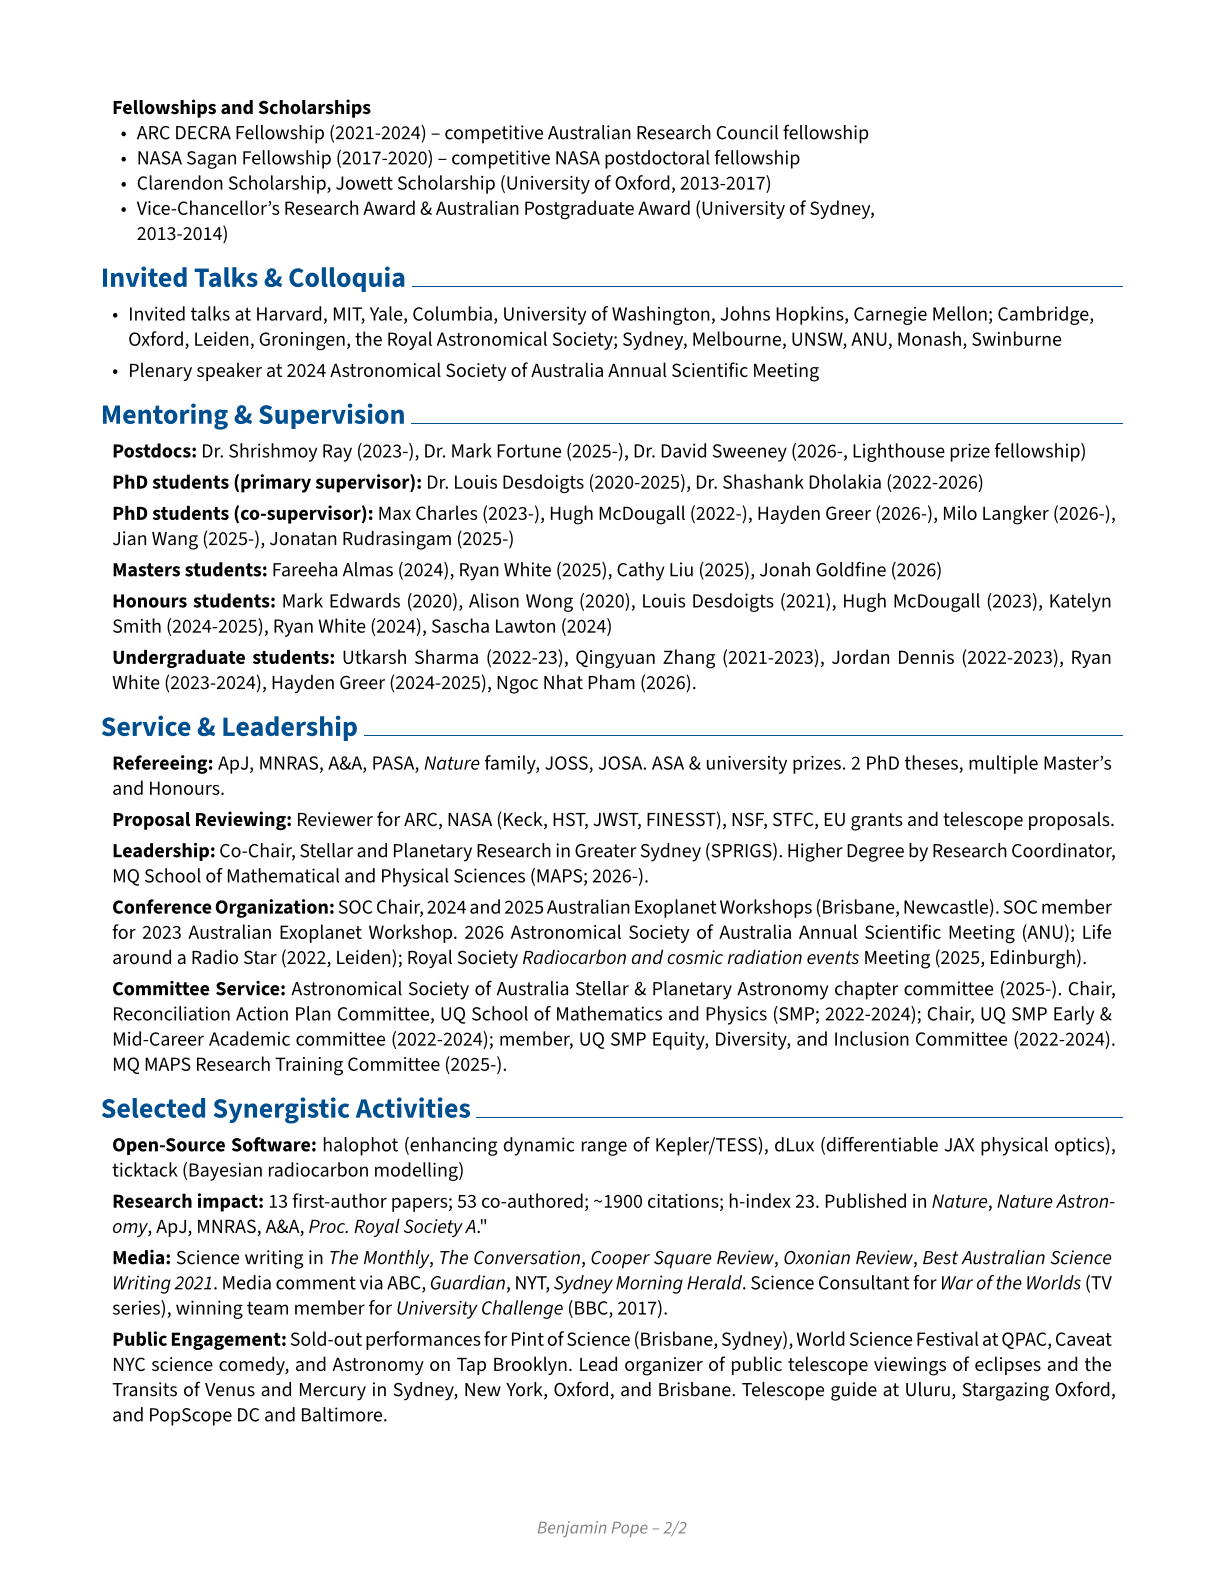
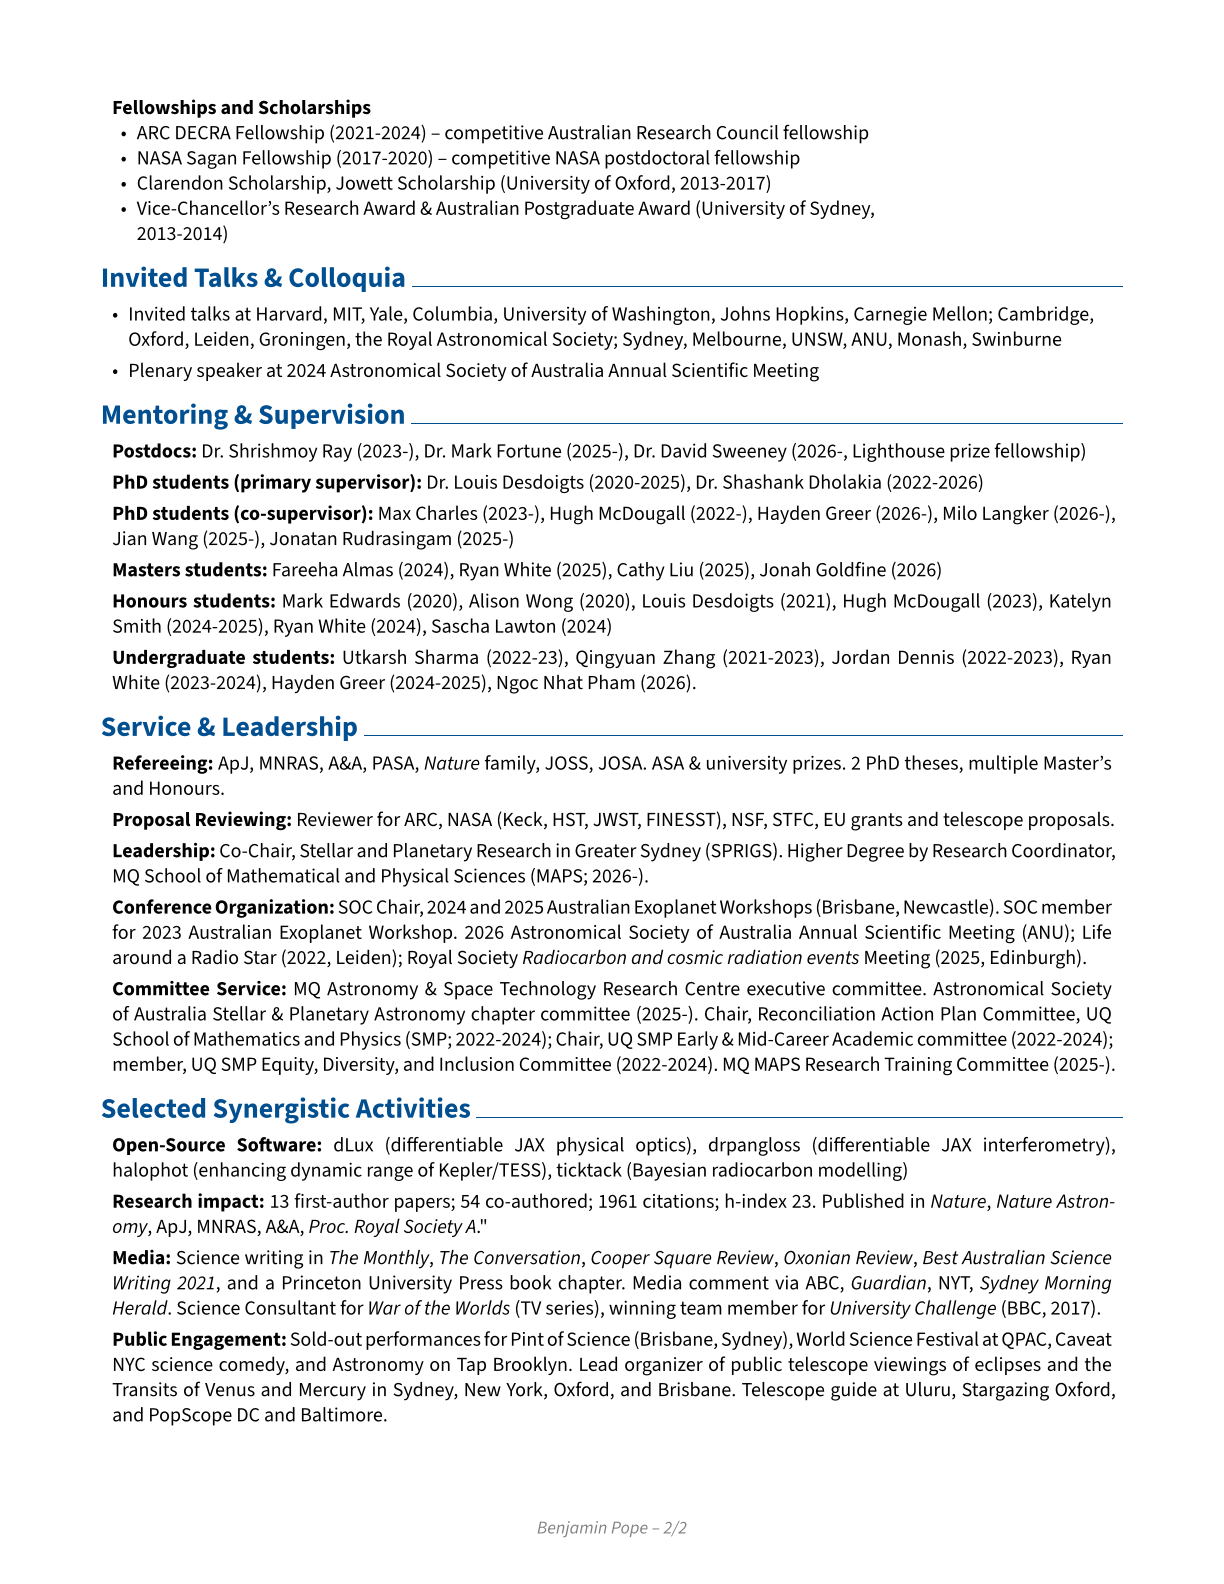
updated cv

Changed region(s): [[0.0931, 0.6187, 0.9314, 0.6806], [0.0931, 0.7115, 0.9003, 0.7734], [0.0931, 0.8043, 0.9003, 0.8352]]

diff --git a/rendercv_output/Benjamin_Pope_CV.html b/rendercv_output/Benjamin_Pope_CV.html
@@ -193,11 +193,11 @@
         <p><strong>Proposal Reviewing:</strong> Reviewer for ARC, NASA (Keck, HST, JWST, FINESST), NSF, STFC, EU grants and telescope proposals.</p>
         <p><strong>Leadership:</strong> Co-Chair, Stellar and Planetary Research in Greater Sydney (SPRIGS). Higher Degree by Research Coordinator, MQ School of Mathematical and Physical Sciences (MAPS; 2026-).</p>
         <p><strong>Conference Organization:</strong> SOC Chair, 2024 and 2025 Australian Exoplanet Workshops (Brisbane, Newcastle). SOC member for 2023 Australian Exoplanet Workshop. 2026 Astronomical Society of Australia Annual Scientific Meeting (ANU); Life around a Radio Star (2022, Leiden); Royal Society <em>Radiocarbon and cosmic radiation events</em> Meeting (2025, Edinburgh).</p>
-        <p><strong>Committee Service:</strong> Astronomical Society of Australia Stellar &amp; Planetary Astronomy chapter committee (2025-). Chair, Reconciliation Action Plan Committee, UQ School of Mathematics and Physics (SMP; 2022-2024); Chair, UQ SMP Early &amp; Mid-Career Academic committee (2022-2024); member, UQ SMP Equity, Diversity, and Inclusion Committee (2022-2024). MQ MAPS Research Training Committee (2025-).</p>
+        <p><strong>Committee Service:</strong> MQ Astronomy &amp; Space Technology Research Centre executive committee. Astronomical Society of Australia Stellar &amp; Planetary Astronomy chapter committee (2025-). Chair, Reconciliation Action Plan Committee, UQ School of Mathematics and Physics (SMP; 2022-2024); Chair, UQ SMP Early &amp; Mid-Career Academic committee (2022-2024); member, UQ SMP Equity, Diversity, and Inclusion Committee (2022-2024). MQ MAPS Research Training Committee (2025-).</p>
         <h1>Selected Synergistic Activities</h1>
-        <p><strong>Open-Source Software:</strong> halophot (enhancing dynamic range of Kepler/TESS), dLux (differentiable JAX physical optics), ticktack (Bayesian radiocarbon modelling)</p>
-        <p><strong>Research impact:</strong> 13 first-author papers; 53 co-authored; ~1900 citations; h-index 23. Published in <em>Nature</em>, <em>Nature Astronomy</em>, ApJ, MNRAS, A&amp;A, <em>Proc. Royal Society A</em>."</p>
-        <p><strong>Media:</strong> Science writing in <em>The Monthly</em>, <em>The Conversation</em>, <em>Cooper Square Review</em>, <em>Oxonian Review</em>, <em>Best Australian Science Writing 2021</em>. Media comment via ABC, <em>Guardian</em>, NYT, <em>Sydney Morning Herald</em>. Science Consultant for <em>War of the Worlds</em> (TV series), winning team member for <em>University Challenge</em> (BBC, 2017).</p>
+        <p><strong>Open-Source Software:</strong> dLux (differentiable JAX physical optics), drpangloss (differentiable JAX interferometry), halophot (enhancing dynamic range of Kepler/TESS), ticktack (Bayesian radiocarbon modelling)</p>
+        <p><strong>Research impact:</strong> 13 first-author papers; 54 co-authored; 1961 citations; h-index 23. Published in <em>Nature</em>, <em>Nature Astronomy</em>, ApJ, MNRAS, A&amp;A, <em>Proc. Royal Society A</em>."</p>
+        <p><strong>Media:</strong> Science writing in <em>The Monthly</em>, <em>The Conversation</em>, <em>Cooper Square Review</em>, <em>Oxonian Review</em>, <em>Best Australian Science Writing 2021</em>, and a Princeton University Press book chapter. Media comment via ABC, <em>Guardian</em>, NYT, <em>Sydney Morning Herald</em>. Science Consultant for <em>War of the Worlds</em> (TV series), winning team member for <em>University Challenge</em> (BBC, 2017).</p>
         <p><strong>Public Engagement:</strong> Sold-out performances for Pint of Science (Brisbane, Sydney), World Science Festival at QPAC, Caveat NYC science comedy, and Astronomy on Tap Brooklyn. Lead organizer of public telescope viewings of eclipses and the Transits of Venus and Mercury in Sydney, New York,  Oxford, and Brisbane. Telescope guide at Uluru, Stargazing Oxford, and PopScope DC and Baltimore.</p>
     </article>
 </body>

diff --git a/rendercv_output/Benjamin_Pope_CV.md b/rendercv_output/Benjamin_Pope_CV.md
@@ -167,13 +167,13 @@ June 2017 – Nov 2017
 
 **Conference Organization:** SOC Chair, 2024 and 2025 Australian Exoplanet Workshops (Brisbane, Newcastle). SOC member for 2023 Australian Exoplanet Workshop. 2026 Astronomical Society of Australia Annual Scientific Meeting (ANU); Life around a Radio Star (2022, Leiden); Royal Society *Radiocarbon and cosmic radiation events* Meeting (2025, Edinburgh).
 
-**Committee Service:** Astronomical Society of Australia Stellar & Planetary Astronomy chapter committee (2025-). Chair, Reconciliation Action Plan Committee, UQ School of Mathematics and Physics (SMP; 2022-2024); Chair, UQ SMP Early & Mid-Career Academic committee (2022-2024); member, UQ SMP Equity, Diversity, and Inclusion Committee (2022-2024). MQ MAPS Research Training Committee (2025-).
+**Committee Service:** MQ Astronomy & Space Technology Research Centre executive committee. Astronomical Society of Australia Stellar & Planetary Astronomy chapter committee (2025-). Chair, Reconciliation Action Plan Committee, UQ School of Mathematics and Physics (SMP; 2022-2024); Chair, UQ SMP Early & Mid-Career Academic committee (2022-2024); member, UQ SMP Equity, Diversity, and Inclusion Committee (2022-2024). MQ MAPS Research Training Committee (2025-).
 
 # Selected Synergistic Activities
-**Open-Source Software:** halophot (enhancing dynamic range of Kepler/TESS), dLux (differentiable JAX physical optics), ticktack (Bayesian radiocarbon modelling)
+**Open-Source Software:** dLux (differentiable JAX physical optics), drpangloss (differentiable JAX interferometry), halophot (enhancing dynamic range of Kepler/TESS), ticktack (Bayesian radiocarbon modelling)
 
-**Research impact:** 13 first-author papers; 53 co-authored; ~1900 citations; h-index 23. Published in *Nature*, *Nature Astronomy*, ApJ, MNRAS, A&A, *Proc. Royal Society A*."
+**Research impact:** 13 first-author papers; 54 co-authored; 1961 citations; h-index 23. Published in *Nature*, *Nature Astronomy*, ApJ, MNRAS, A&A, *Proc. Royal Society A*."
 
-**Media:** Science writing in *The Monthly*, *The Conversation*, *Cooper Square Review*, *Oxonian Review*, *Best Australian Science Writing 2021*. Media comment via ABC, *Guardian*, NYT, *Sydney Morning Herald*. Science Consultant for *War of the Worlds* (TV series), winning team member for *University Challenge* (BBC, 2017).
+**Media:** Science writing in *The Monthly*, *The Conversation*, *Cooper Square Review*, *Oxonian Review*, *Best Australian Science Writing 2021*, and a Princeton University Press book chapter. Media comment via ABC, *Guardian*, NYT, *Sydney Morning Herald*. Science Consultant for *War of the Worlds* (TV series), winning team member for *University Challenge* (BBC, 2017).
 
 **Public Engagement:** Sold-out performances for Pint of Science (Brisbane, Sydney), World Science Festival at QPAC, Caveat NYC science comedy, and Astronomy on Tap Brooklyn. Lead organizer of public telescope viewings of eclipses and the Transits of Venus and Mercury in Sydney, New York,  Oxford, and Brisbane. Telescope guide at Uluru, Stargazing Oxford, and PopScope DC and Baltimore.
